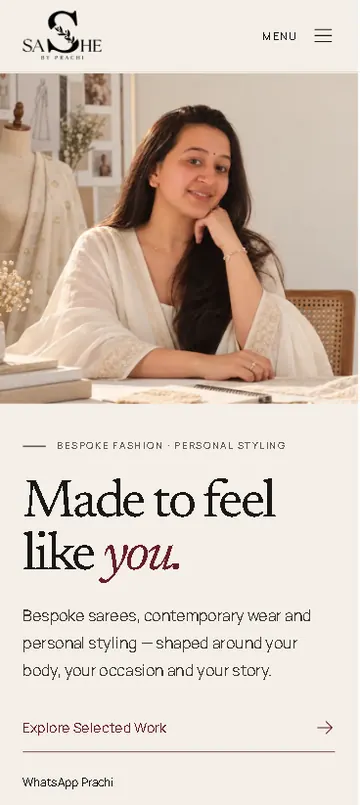
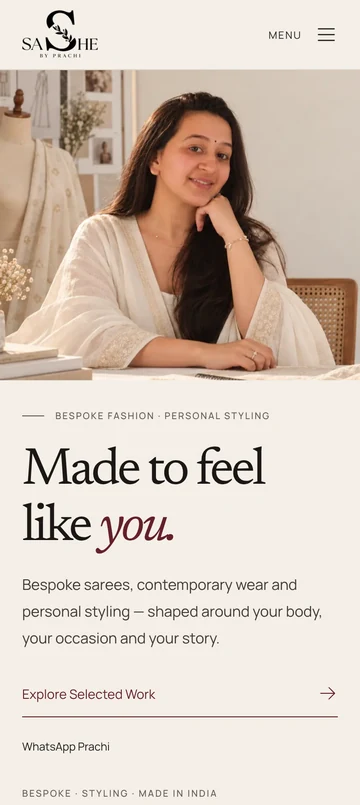
A real phone for every project's phone view; projects full size on phones
- Phone view is now a drawn handset on every screen size: titanium edge, glass bezel,
  Dynamic Island, side keys, a status bar in each site's own header colour, home indicator
- On phones, projects flow down the page instead of being squeezed into one screen,
  so the device is full size (199–290px wide, sized to fit the screen with its switch)
- Desktop/Mobile switch moved out of the device into its own pill; drag handle only on desktop
- Sharper phone screens: fresh 2x capture of Sashe, careful 2x builds of TIS, Antrah and Roar
- Desktop: the small companion phone moved off the resize handle (it blocked dragging on
  three projects), dragging no longer selects the page, and a narrowed browser shows the phone site

Claude-Session: https://claude.ai/code/session_01PnNqLetZa1qM7x4YyDRdo5

diff --git a/src/index.css b/src/index.css
@@ -287,47 +287,77 @@ html.menu-open { overflow: hidden; }
 .ch__role { margin: 1rem 0 1.5rem; font-size: 0.95rem; color: #fff; display: flex; align-items: center; gap: 0.55rem; }
 .ch__role::before { content: ''; width: 8px; height: 8px; border-radius: 2px; background: var(--accent); box-shadow: 0 0 0 1px rgb(255 255 255 / 30%); }
 
-.ch__media { position: relative; z-index: 1; width: 100%; max-width: 940px; justify-self: center; perspective: 1600px; --bw: 1; --rd: 1.4; --sh: 520px; }
+.ch__media { position: relative; z-index: 1; width: 100%; max-width: min(940px, calc((100svh - 18rem) * 1.6)); justify-self: center; perspective: 1600px; --bw: 1; --rd: 1.4; --sh: 520px; --hw: 250px; }
+.ch__tools { display: flex; align-items: center; justify-content: space-between; gap: 1rem; margin-bottom: 0.9rem; opacity: calc(0.2 + var(--t, 0) * 0.8); }
+.ch__devices { position: relative; }
 .browser {
   position: relative; width: calc(var(--bw) * 100%); margin-inline: auto; border-radius: 12px; background: #160935; border: 1px solid rgb(255 255 255 / 12%);
   box-shadow: 0 50px 90px -40px rgb(0 0 0 / 80%), 0 0 0 6px rgb(255 255 255 / 3%);
   transform-origin: 50% 100%;
   transform: translate3d(0, calc((1 - var(--t, 0)) * 60px), 0) rotateX(calc((1 - var(--t, 0)) * 14deg)) scale(calc(0.93 + var(--t, 0) * 0.07));
-  transition: width 0.6s var(--ease);
+  transition: width 0.6s var(--ease), opacity 0.45s ease, visibility 0.45s;
 }
 .is-dragging .browser { transition: none; }
-.browser__bar { display: flex; align-items: center; gap: 0.4rem; height: 2.6rem; padding: 0 0.5rem 0 0.9rem; background: #241150; border-bottom: 1px solid rgb(255 255 255 / 8%); border-radius: 12px 12px 0 0; }
+.is-dragging, .is-dragging * { user-select: none; -webkit-user-select: none; }
+.grip { z-index: 4; }
+.is-mob .browser { opacity: 0; visibility: hidden; }
+.browser__bar { display: flex; align-items: center; gap: 0.4rem; height: 2.6rem; padding: 0 0.9rem; background: #241150; border-bottom: 1px solid rgb(255 255 255 / 8%); border-radius: 12px 12px 0 0; }
 .browser__bar > i { width: 10px; height: 10px; border-radius: 50%; background: rgb(255 255 255 / 18%); flex: none; }
 .browser__bar > span { margin-left: 0.6rem; flex: 1; min-width: 0; max-width: 22rem; font: 500 0.78rem/1.6rem var(--sans); color: var(--mute-n); background: rgb(255 255 255 / 6%); border-radius: 6px; padding: 0 0.7rem; white-space: nowrap; overflow: hidden; text-overflow: ellipsis; }
-.vseg { display: flex; gap: 2px; margin-left: auto; padding: 2px; border-radius: 8px; background: rgb(255 255 255 / 7%); flex: none; }
-.vseg button { display: inline-flex; align-items: center; gap: 6px; height: 28px; padding: 0 10px; border: 0; border-radius: 6px; background: transparent; color: var(--mute-n); font: 600 12px/1 var(--sans); cursor: pointer; transition: background-color 0.2s, color 0.2s; }
+.vseg { display: inline-flex; gap: 2px; padding: 3px; border-radius: 999px; background: rgb(255 255 255 / 7%); border: 1px solid rgb(255 255 255 / 12%); flex: none; }
+.vseg button { display: inline-flex; align-items: center; gap: 7px; height: 34px; padding: 0 14px; border: 0; border-radius: 999px; background: transparent; color: var(--mute-n); font: 600 13px/1 var(--sans); cursor: pointer; transition: background-color 0.25s, color 0.25s; }
 .vseg button:hover { color: #fff; }
 .vseg button.is-on { background: var(--chart); color: var(--ink); }
-.is-mob .vseg span { display: none; }
-.is-mob .vseg button { padding: 0 8px; }
-.is-mob .browser__bar > span { display: none; }
 .screen { position: relative; height: var(--sh); overflow: hidden; background: #fff; border-radius: 0 0 11px 11px; }
-.screen__page { position: absolute; left: 0; top: 0; width: 100%; height: auto; will-change: transform; transition: opacity 0.35s; }
+.screen__page { position: absolute; left: 0; top: 0; width: 100%; height: auto; will-change: transform; }
 .screen__desk img { display: block; width: 100%; height: auto; }
+.screen__mob { opacity: 0; transition: opacity 0.3s; }
+.is-narrow .screen__mob { opacity: 1; }
+.is-narrow .screen__desk { opacity: 0; }
+.screen__desk { transition: opacity 0.3s; }
 .screen__loop { position: absolute; left: 0; top: 0; width: 100%; aspect-ratio: var(--lr, 16 / 10); object-fit: cover; }
 .screen__desk { transform: translate3d(0, calc(var(--sc, 0) * max(0, 1 - var(--shr, 0.625) / (var(--bw) * var(--rd))) * -100%), 0); }
-.screen__mob { opacity: 0; transform: translate3d(0, calc(var(--sc, 0) * max(0, 1 - var(--shr, 0.625) / (var(--bw) * 2.236)) * -100%), 0); }
-.is-mob .screen__desk { opacity: 0; }
-.is-mob .screen__mob { opacity: 1; }
 .grip { position: absolute; right: -15px; top: 50%; width: 22px; height: 64px; margin-top: -32px; display: flex; align-items: center; justify-content: center; gap: 3px; border: 1px solid rgb(255 255 255 / 22%); border-radius: 8px; background: #2e1a63; cursor: ew-resize; touch-action: none; box-shadow: 0 8px 20px -8px rgb(0 0 0 / 60%); transition: background-color 0.2s, border-color 0.2s; }
 .grip i { width: 2px; height: 22px; border-radius: 2px; background: rgb(255 255 255 / 55%); }
 .grip:hover, .is-dragging .grip { background: var(--chart); border-color: var(--chart); }
 .grip:hover i, .is-dragging .grip i { background: var(--ink); }
-.ch__tip { position: absolute; right: 0.2rem; top: -1.9rem; font: 500 0.82rem/1 var(--sans); color: var(--mute-n); white-space: nowrap; opacity: calc(var(--t, 0) * (1 - var(--ph, 0) * 0.4)); }
+.ch__tip { font: 500 0.82rem/1 var(--sans); color: var(--mute-n); white-space: nowrap; transition: opacity 0.3s; }
 .ch__tip::after { content: ' →'; color: var(--chart); }
+.is-mob .ch__tip { opacity: 0; }
+
+/* phone view: a drawn handset takes the browser's place */
+.ch__handset { position: absolute; inset: 0; display: grid; place-items: center; pointer-events: none; opacity: 0; translate: 0 28px; scale: 0.96; transition: opacity 0.5s ease, translate 0.7s var(--ease), scale 0.7s var(--ease); }
+.is-mob .ch__handset { opacity: 1; translate: 0 0; scale: 1; pointer-events: auto; }
 .is-mob .phone { opacity: 0 !important; }
+/* The small companion phone sits on the left edge, clear of the resize handle on the right. */
 .phone {
-  position: absolute; right: -3%; bottom: -9%; width: clamp(118px, 12.5vw, 205px); padding: 7px; border-radius: 28px; background: #12062c;
-  border: 1px solid rgb(255 255 255 / 16%); box-shadow: 0 40px 70px -30px rgb(0 0 0 / 85%);
-  transform: translate3d(0, calc((1 - var(--ph, 0)) * 55%), 0) rotate(calc((1 - var(--ph, 0)) * 7deg)); opacity: min(1, calc(var(--ph, 0) * 5));
+  position: absolute; left: -3%; bottom: -9%; z-index: 2; --hw: clamp(118px, 12.5vw, 205px); width: var(--hw); pointer-events: none;
+  transform: translate3d(0, calc((1 - var(--ph, 0)) * 55%), 0) rotate(calc((1 - var(--ph, 0)) * -7deg)); opacity: min(1, calc(var(--ph, 0) * 5)); transition: opacity 0.3s;
 }
-.ch--flip .phone { right: auto; left: 2.5%; transform: translate3d(0, calc((1 - var(--ph, 0)) * 55%), 0) rotate(calc((1 - var(--ph, 0)) * -7deg)); }
-.phone img { width: 100%; aspect-ratio: 360 / 805; object-fit: cover; object-position: top; border-radius: 21px; }
+.ch--flip .phone { left: 2.5%; }
+
+.handset {
+  position: relative; width: var(--hw); padding: calc(var(--hw) * 0.038); border-radius: calc(var(--hw) * 0.17);
+  background: linear-gradient(150deg, #8a7bb8 0%, #3b2d66 9%, #1d1238 30%, #150c2c 62%, #33265d 88%, #7d6dad 100%);
+  box-shadow: inset 0 0 0 1px rgb(255 255 255 / 22%), inset 0 0 0 calc(var(--hw) * 0.013) #2a1f4c, 0 calc(var(--hw) * 0.2) calc(var(--hw) * 0.34) calc(var(--hw) * -0.12) rgb(5 2 15 / 85%), 0 0 0 1px rgb(10 5 30 / 60%);
+}
+.handset::before { content: ''; position: absolute; inset: calc(var(--hw) * 0.013); border-radius: calc(var(--hw) * 0.157); background: #0c0718; }
+.handset__key { position: absolute; width: calc(var(--hw) * 0.016); border-radius: 2px; background: linear-gradient(90deg, #6b5c9a, #2a1f4c); }
+.handset__key--action, .handset__key--up, .handset__key--down { left: calc(var(--hw) * -0.012); }
+.handset__key--action { top: 17%; height: 4.6%; }
+.handset__key--up { top: 25%; height: 8.6%; }
+.handset__key--down { top: 35.5%; height: 8.6%; }
+.handset__key--power { right: calc(var(--hw) * -0.012); top: 27%; height: 13%; background: linear-gradient(90deg, #2a1f4c, #6b5c9a); }
+.handset__screen { position: relative; z-index: 1; aspect-ratio: 9 / 19.5; overflow: hidden; border-radius: calc(var(--hw) * 0.132); background: #fff; display: flex; flex-direction: column; isolation: isolate; }
+.handset__screen::after { content: ''; position: absolute; inset: 0; z-index: 3; pointer-events: none; border-radius: inherit; background: linear-gradient(118deg, rgb(255 255 255 / 9%) 0%, rgb(255 255 255 / 0%) 34%); box-shadow: inset 0 0 0 1px rgb(255 255 255 / 6%); }
+.handset__status { position: relative; flex: none; height: calc(var(--hw) * 0.13); display: flex; align-items: center; justify-content: space-between; padding: 0 calc(var(--hw) * 0.085) 0 calc(var(--hw) * 0.11); color: #1a1a1a; }
+.handset__status.is-light { color: #fff; }
+.handset__time { font: 650 calc(var(--hw) * 0.049)/1 var(--sans); letter-spacing: -0.01em; font-variant-numeric: tabular-nums; }
+.handset__icons { width: calc(var(--hw) * 0.2); height: auto; }
+.handset__island { position: absolute; left: 50%; top: calc(var(--hw) * 0.03); width: 31%; height: calc(var(--hw) * 0.084); translate: -50% 0; border-radius: 999px; background: #0a0612; }
+.handset__page { display: block; flex: 1; min-height: 0; width: 100%; object-fit: cover; object-position: top; }
+.handset__home { position: absolute; z-index: 2; left: 50%; bottom: calc(var(--hw) * 0.022); width: 36%; height: calc(var(--hw) * 0.015); translate: -50% 0; border-radius: 999px; background: #fff; mix-blend-mode: difference; opacity: 0.75; }
+@keyframes devIn { from { opacity: 0; translate: 0 18px; scale: 0.97; } }
 
 /* ------------------------------------------------------------------ more work */
 .more { background: var(--night); color: var(--on-night); padding-block: clamp(5rem, 14vh, 9rem) clamp(6rem, 16vh, 10rem); border-top: 1px solid rgb(255 255 255 / 8%); }
@@ -474,38 +504,26 @@ html.menu-open { overflow: hidden; }
   .layers { left: var(--gutter); right: var(--gutter); width: auto; top: 4rem; max-height: 42vh; }
   .layers ~ .props { right: var(--gutter); }
 
-  .ch { height: 190svh; }
-  .ch__stage, .ch--flip .ch__stage { grid-template-columns: minmax(0, 1fr); align-content: center; gap: 1.6rem; padding-top: 4.2rem; padding-bottom: 6.2rem; }
-  .ch__copy { max-width: none; }
-  .ch__title { overflow-wrap: break-word; text-wrap: balance; }
+  .ch { height: auto; }
+  .ch__stage, .ch--flip .ch__stage { position: relative; height: auto; overflow: visible; contain: none; grid-template-columns: minmax(0, 1fr); align-content: start; gap: 2rem; padding: 3.4rem var(--gutter) 3.8rem; }
   .ch--flip .ch__copy { order: 0; }
+  .ch__copy { max-width: none; }
   .ch__num { margin-bottom: 0.8rem; }
-  .ch__title { font-size: clamp(2.3rem, 11vw, 3.6rem); }
+  .ch__title { font-size: clamp(2.3rem, 11vw, 3.6rem); font-stretch: calc(56% + var(--t, 0) * 22%); overflow-wrap: break-word; text-wrap: balance; }
   .ch__meta { margin-top: 0.7rem; font-size: 0.9rem; }
-  .ch__text { display: -webkit-box; -webkit-line-clamp: 3; -webkit-box-orient: vertical; overflow: hidden; font-size: 0.98rem; margin-top: 0.6rem; }
-  .ch__role { display: none; }
-  .ch__copy .btn { min-height: 2.6rem; padding: 0.6rem 1rem; font-size: 0.92rem; margin-top: 0.9rem; }
-  .ch__glow { background: radial-gradient(80% 50% at 50% 70%, color-mix(in srgb, var(--accent) 30%, transparent), transparent 70%) !important; }
-  .phone, .ch--flip .phone { right: -1%; left: auto; bottom: -12%; width: 27vw; border-radius: 20px; padding: 5px; }
-  .ch__tip { display: none; }
+  .ch__text { font-size: 0.98rem; margin-top: 0.7rem; }
+  .ch__role { margin: 0.8rem 0 0; font-size: 0.9rem; }
+  .ch__copy .btn { min-height: 2.7rem; padding: 0.6rem 1.05rem; font-size: 0.94rem; margin-top: 1.1rem; }
+  .ch__glow { background: radial-gradient(90% 45% at 50% 72%, color-mix(in srgb, var(--accent) 30%, transparent), transparent 70%) !important; }
   .ch__host { display: none; }
   .ch__host-s { display: inline; }
-  .ch__title { font-stretch: calc(56% + var(--t, 0) * 22%); }
-  .ch__stage, .ch--flip .ch__stage { gap: 1.1rem; }
-  .ch__stage, .ch--flip .ch__stage { grid-template-rows: auto minmax(0, 1fr); align-content: stretch; padding-top: 4.6rem; padding-bottom: 1.4rem; }
-  .ch__media { height: 100%; min-height: 0; display: flex; flex-direction: column; justify-content: center; }
-  .ch__media .phone { display: none; }
-  .ch__media.is-mob .screen { height: var(--shm, min(52svh, 500px)); }
-  .ch__media.is-mob .browser { border-radius: 22px; }
-  .ch__media.is-mob .browser__bar { border-radius: 22px 22px 0 0; }
-  .ch__media.is-mob .screen { border-radius: 0 0 21px 21px; }
-  .grip { right: -11px; width: 18px; height: 52px; margin-top: -26px; }
-  .vseg button { height: 26px; padding: 0 8px; }
-  .vseg span { display: none; }
-  .is-mob .browser__bar > i { display: none; }
-  .is-mob .browser__bar { justify-content: center; padding: 0 0.4rem; }
-  .is-mob .vseg { margin-left: 0; }
-  .phone img { border-radius: 15px; }
+  .ch__media { max-width: 100%; }
+  .ch__tools { justify-content: center; margin-bottom: 1.2rem; }
+  .ch__tip, .grip, .ch__media .phone { display: none; }
+  .ch__handset { position: relative; inset: auto; display: none; --hw: min(68vw, 290px, calc((100svh - 9.5rem) / 2.09)); pointer-events: auto; opacity: 1; translate: 0 0; scale: 1; transition: none; }
+  .is-mob .ch__handset { display: grid; animation: devIn 0.55s var(--ease) both; }
+  .is-mob .browser { display: none; }
+  .is-desk .browser { animation: devIn 0.55s var(--ease) both; }
 
   .svc__list li { grid-template-columns: 1fr; }
   .about__grid { grid-template-columns: 1fr; }

diff --git a/src/Work.tsx b/src/Work.tsx
@@ -1,17 +1,27 @@
 import { useEffect, useRef, useState } from 'react'
 import { projects, type Project } from './data'
-import { clamp, sstep, usePin } from './scroll'
+import { clamp, kick, sstep, usePin } from './scroll'
 import { Ext } from './icons'
 import { IcDesktop, IcPhone } from './canvasIcons'
 import { Loop } from './media'
 import { LOOPS, shot } from './shots'
+import { Handset } from './Handset'
 
 const featured = projects.slice(0, 6)
 const more = projects.slice(6)
 const host = (u: string) => u.replace(/^https?:\/\/(www\.)?/, '').replace(/\/$/, '')
 
 function Chapter({ p, i }: { p: Project; i: number }) {
-  const ref = usePin<HTMLElement>((t, _r, el) => {
+  const narrow = () => matchMedia('(max-width: 860px)').matches
+  const ref = usePin<HTMLElement>((t, r, el) => {
+    if (narrow()) {
+      // Phones: chapters sit in the page flow, so progress follows the chapter across the screen.
+      const vh = innerHeight
+      el.style.setProperty('--t', sstep(0, 1, (vh - r.top) / (vh * 0.55)).toFixed(3))
+      el.style.setProperty('--sc', sstep(0.25, 0.9, (vh - r.top) / (vh + r.height)).toFixed(4))
+      el.style.setProperty('--ph', '1')
+      return
+    }
     el.style.setProperty('--t', sstep(0, 0.24, t).toFixed(3))
     el.style.setProperty('--sc', sstep(0.16, 0.9, t).toFixed(4))
     el.style.setProperty('--ph', sstep(0.36, 0.7, t).toFixed(3))
@@ -20,56 +30,53 @@ function Chapter({ p, i }: { p: Project; i: number }) {
   // Every project opens on its desktop site; the phone view is one tap away.
   const [view, setView] = useState<'desk' | 'mob'>('desk')
   const [dragging, setDragging] = useState(false)
-  const mobW = useRef(0.36)
-  // Size the browser. Desktop view keeps a 16:10 screen. Mobile view keeps a real phone shape:
-  // on narrow layouts it fills the height left under the text, on wide ones it is a fixed width.
-  const layout = (v: 'desk' | 'mob') => {
+  // Size the browser (16:10 screen) and, on wide layouts, the phone that replaces it in phone view.
+  const layout = () => {
     const m = media.current
     if (!m) return
     const w = m.clientWidth
     if (!w) return
-    const narrow = matchMedia('(max-width: 860px)').matches
     const bar = m.querySelector<HTMLElement>('.browser__bar')?.offsetHeight ?? 42
-    m.style.setProperty('--sh', `${(w * 0.625).toFixed(1)}px`)
-    if (narrow) {
-      const screenH = clamp(m.clientHeight - bar - 6, 240, 640)
-      m.style.setProperty('--shm', `${screenH.toFixed(1)}px`)
-      mobW.current = clamp(screenH / 2.236 / w, 0.3, 0.92)
-    } else {
-      m.style.removeProperty('--shm')
-      mobW.current = clamp(Math.max(0.36, 210 / w), 0.36, 0.7)
-    }
-    if (!m.dataset.drag) m.style.setProperty('--bw', v === 'mob' ? mobW.current.toFixed(3) : '1')
+    const sh = w * 0.625
+    m.style.setProperty('--sh', `${sh.toFixed(1)}px`)
+    if (!narrow()) m.style.setProperty('--hw', `${clamp((sh + bar) / 2.09, 190, 300).toFixed(1)}px`)
+    else m.style.removeProperty('--hw')
+    if (!m.dataset.drag) m.style.setProperty('--bw', '1')
     requestAnimationFrame(() => { const sc = m.querySelector<HTMLElement>('.screen'); if (sc) m.style.setProperty('--shr', (sc.clientHeight / w).toFixed(4)) })
   }
   useEffect(() => {
     const m = media.current!
-    const ro = new ResizeObserver(() => layout(view))
+    const ro = new ResizeObserver(() => layout())
     ro.observe(m)
     return () => ro.disconnect()
   })
-  const setTo = (v: 'desk' | 'mob') => { setView(v); requestAnimationFrame(() => layout(v)) }
+  const setTo = (v: 'desk' | 'mob') => { setView(v); requestAnimationFrame(() => { layout(); kick() }) }
   const fit = (e: React.SyntheticEvent<HTMLImageElement>) => {
     const im = e.currentTarget
     media.current!.style.setProperty('--rd', (im.naturalHeight / im.naturalWidth).toFixed(4))
   }
+  // Wide screens: drag the browser's edge narrower and it turns into the phone.
   const grip = (e: React.PointerEvent<HTMLButtonElement>) => {
     const m = media.current!
     const r = m.getBoundingClientRect()
     const cx = r.left + r.width / 2
+    const minW = 0.34
+    e.preventDefault()
     e.currentTarget.setPointerCapture(e.pointerId)
     m.dataset.drag = '1'; setDragging(true)
     let v = view
+    if (v === 'mob') { v = 'desk'; setView('desk') }
     const mv = (ev: PointerEvent) => {
-      const bw = clamp((2 * (ev.clientX - cx)) / r.width, mobW.current * 0.85, 1)
+      const bw = clamp((2 * (ev.clientX - cx)) / r.width, minW, 1)
       m.style.setProperty('--bw', bw.toFixed(3))
-      const nv = bw < (1 + mobW.current) / 2 - 0.08 ? 'mob' : 'desk'
-      if (nv !== v) { v = nv; setView(nv) }
+      v = bw < 0.5 ? 'mob' : 'desk'
+      m.classList.toggle('is-narrow', bw < 0.62)
     }
     const up = () => {
       removeEventListener('pointermove', mv); removeEventListener('pointerup', up); removeEventListener('pointercancel', up)
-      delete m.dataset.drag; setDragging(false)
-      m.style.setProperty('--bw', v === 'mob' ? mobW.current.toFixed(3) : '1')
+      delete m.dataset.drag; setDragging(false); m.classList.remove('is-narrow')
+      m.style.setProperty('--bw', '1')
+      setView(v)
     }
     addEventListener('pointermove', mv); addEventListener('pointerup', up); addEventListener('pointercancel', up)
   }
@@ -86,32 +93,37 @@ function Chapter({ p, i }: { p: Project; i: number }) {
           <a className="btn btn--light ch__visit" href={p.url} target="_blank" rel="noopener"><span className="ch__host">Visit {host(p.url)}</span><span className="ch__host-s">Visit the live site</span><Ext /></a>
         </div>
         <div ref={media} className={`ch__media is-${view}${dragging ? ' is-dragging' : ''}`}>
-          <div className="browser">
-            <div className="browser__bar">
-              <i aria-hidden="true" /><i aria-hidden="true" /><i aria-hidden="true" />
-              <span aria-hidden="true">{host(p.url)}</span>
-              {p.mobile && (
-                <div className="vseg" role="group" aria-label={`View ${p.name} on`}>
-                  <button className={view === 'desk' ? 'is-on' : ''} aria-pressed={view === 'desk'} onClick={() => setTo('desk')}><IcDesktop /><span>Desktop</span></button>
-                  <button className={view === 'mob' ? 'is-on' : ''} aria-pressed={view === 'mob'} onClick={() => setTo('mob')}><IcPhone /><span>Mobile</span></button>
-                </div>
-              )}
-            </div>
-            <div className="screen">
-              <div className="screen__page screen__desk">
-                <img {...shot(p.slug, 'page')} alt={`${p.name} website, desktop`} loading="lazy" decoding="async" width={1152} onLoad={fit} />
-                {LOOPS[p.slug] && <Loop slug={p.slug} className="screen__loop" on={view === 'desk'} still={false} />}
+          {p.mobile && (
+            <div className="ch__tools">
+              <div className="vseg" role="group" aria-label={`View ${p.name} on`}>
+                <button className={view === 'desk' ? 'is-on' : ''} aria-pressed={view === 'desk'} onClick={() => setTo('desk')}><IcDesktop /><span>Desktop</span></button>
+                <button className={view === 'mob' ? 'is-on' : ''} aria-pressed={view === 'mob'} onClick={() => setTo('mob')}><IcPhone /><span>Mobile</span></button>
               </div>
-              {p.mobile && <img className="screen__page screen__mob" {...shot(p.slug, 'mobile')} alt={`${p.name} website, mobile`} loading="lazy" decoding="async" width={360} height={805} />}
+              <p className="ch__tip" aria-hidden="true">Drag the edge to resize</p>
             </div>
-            {p.mobile && <button className="grip" onPointerDown={grip} aria-label="Drag to resize the browser" title="Drag to resize"><i /><i /></button>}
+          )}
+          <div className="ch__devices">
+            <div className="browser" aria-hidden={view === 'mob' || undefined}>
+              <div className="browser__bar">
+                <i aria-hidden="true" /><i aria-hidden="true" /><i aria-hidden="true" />
+                <span aria-hidden="true">{host(p.url)}</span>
+              </div>
+              <div className="screen">
+                <div className="screen__page screen__desk">
+                  <img {...shot(p.slug, 'page')} alt={`${p.name} website, desktop`} loading="lazy" decoding="async" width={1152} onLoad={fit} />
+                  {LOOPS[p.slug] && <Loop slug={p.slug} className="screen__loop" on={view === 'desk'} still={false} />}
+                </div>
+                {p.mobile && <img className="screen__page screen__mob" {...shot(p.slug, 'mobile')} alt="" aria-hidden="true" loading="lazy" decoding="async" width={360} height={805} />}
+              </div>
+              {p.mobile && <button className="grip" onPointerDown={grip} aria-label="Drag to resize the browser" title="Drag to resize"><i /><i /></button>}
+            </div>
+            {p.mobile && <div className="ch__handset"><Handset slug={p.slug} name={p.name} hidden={view !== 'mob'} /></div>}
           </div>
           {p.mobile && (
             <div className="phone" aria-hidden="true">
-              <img {...shot(p.slug, 'mobile')} alt="" loading="lazy" decoding="async" width={360} height={805} />
+              <Handset slug={p.slug} name={p.name} hidden />
             </div>
           )}
-          {p.mobile && <p className="ch__tip" aria-hidden="true">Drag the edge to resize</p>}
         </div>
       </div>
     </section>

diff --git a/src/Handset.tsx b/src/Handset.tsx
@@ -1,0 +1,33 @@
+import type { CSSProperties } from 'react'
+import { shot, STATUS } from './shots'
+
+// A drawn phone: titanium edge, glass bezel, Dynamic Island, side keys, a status bar tinted
+// like the site's own header, and the home indicator. Every size comes from --hw (its width).
+export function Handset({ slug, name, hidden = false, eager = false, style }: { slug: string; name: string; hidden?: boolean; eager?: boolean; style?: CSSProperties }) {
+  const tone = STATUS[slug] ?? { bg: '#ffffff', fg: 'dark' as const }
+  return (
+    <div className="handset" style={style} aria-hidden={hidden || undefined}>
+      <i className="handset__key handset__key--action" aria-hidden="true" />
+      <i className="handset__key handset__key--up" aria-hidden="true" />
+      <i className="handset__key handset__key--down" aria-hidden="true" />
+      <i className="handset__key handset__key--power" aria-hidden="true" />
+      <div className="handset__screen">
+        <div className={`handset__status is-${tone.fg}`} style={{ background: tone.bg }} aria-hidden="true">
+          <span className="handset__time">9:41</span>
+          <span className="handset__island" />
+          <svg className="handset__icons" viewBox="0 0 66 12" aria-hidden="true">
+            <g fill="currentColor">
+              <rect x="0" y="8" width="3" height="4" rx="1" /><rect x="5" y="6" width="3" height="6" rx="1" />
+              <rect x="10" y="3.5" width="3" height="8.5" rx="1" /><rect x="15" y="1" width="3" height="11" rx="1" />
+              <path d="M30.5 3.2a9.8 9.8 0 0 1 6.9 2.8l1.3-1.3a11.6 11.6 0 0 0-16.4 0l1.3 1.3a9.8 9.8 0 0 1 6.9-2.8Zm0 3.7a6 6 0 0 1 4.2 1.7l1.3-1.3a7.9 7.9 0 0 0-11 0l1.3 1.3a6 6 0 0 1 4.2-1.7Zm0 3.7a2.3 2.3 0 0 1 1.6.7l-1.6 1.6-1.6-1.6a2.3 2.3 0 0 1 1.6-.7Z" />
+              <rect x="44" y="1.5" width="19" height="9" rx="2.6" fill="none" stroke="currentColor" strokeOpacity=".45" />
+              <rect x="45.8" y="3.3" width="13.5" height="5.4" rx="1.4" /><rect x="64" y="4.3" width="1.6" height="3.4" rx=".8" fillOpacity=".45" />
+            </g>
+          </svg>
+        </div>
+        <img className="handset__page" {...shot(slug, 'mobile')} alt={hidden ? '' : `${name} website on a phone`} loading={eager ? 'eager' : 'lazy'} decoding="async" width={360} height={805} />
+        <span className="handset__home" aria-hidden="true" />
+      </div>
+    </div>
+  )
+}

diff --git a/src/shots.ts b/src/shots.ts
@@ -1,5 +1,7 @@
 // Screens captured at double resolution, and sites that have a recorded loop.
 const HI = new Set(['vidhi', 'uscale'])
+// Phone screens with a 2x file (sharp on modern phones).
+const HI_MOBILE = new Set(['vidhi', 'uscale', 'sashe', 'tis', 'antrah', 'roar'])
 // Each loop comes in a 1440px cut for large screens and a 960px cut for phones, as WebM and MP4.
 // w × h is the recorded area: the whole hero, so it lines up with the full-page screenshot under it.
 export const LOOPS: Record<string, { base: string; w: number; h: number }> = {
@@ -8,7 +10,18 @@ export const LOOPS: Record<string, { base: string; w: number; h: number }> = {
 export type Kind = 'live' | 'page' | 'mobile'
 export const shot = (slug: string, kind: Kind) => ({
   src: `/work/${slug}-${kind}.webp`,
-  srcSet: HI.has(slug) ? `/work/${slug}-${kind}.webp 1x, /work/${slug}-${kind}@2x.webp 2x` : undefined,
+  srcSet: (kind === 'mobile' ? HI_MOBILE : HI).has(slug) ? `/work/${slug}-${kind}.webp 1x, /work/${slug}-${kind}@2x.webp 2x` : undefined,
 })
 export const poster = (slug: string) => (HI.has(slug) ? `/work/${slug}-live@2x.webp` : `/work/${slug}-live.webp`)
 
+
+// Phone status bar colours: each site's own header colour, with dark or light icons on it.
+export const STATUS: Record<string, { bg: string; fg: 'dark' | 'light' }> = {
+  vidhi: { bg: '#212121', fg: 'light' },
+  sashe: { bg: '#f5efe8', fg: 'dark' },
+  uscale: { bg: '#fafafc', fg: 'dark' },
+  tis: { bg: '#fffaf0', fg: 'dark' },
+  antrah: { bg: '#f4f2e3', fg: 'dark' },
+  roar: { bg: '#060606', fg: 'light' },
+  growcred: { bg: '#f6fcf3', fg: 'dark' },
+}
